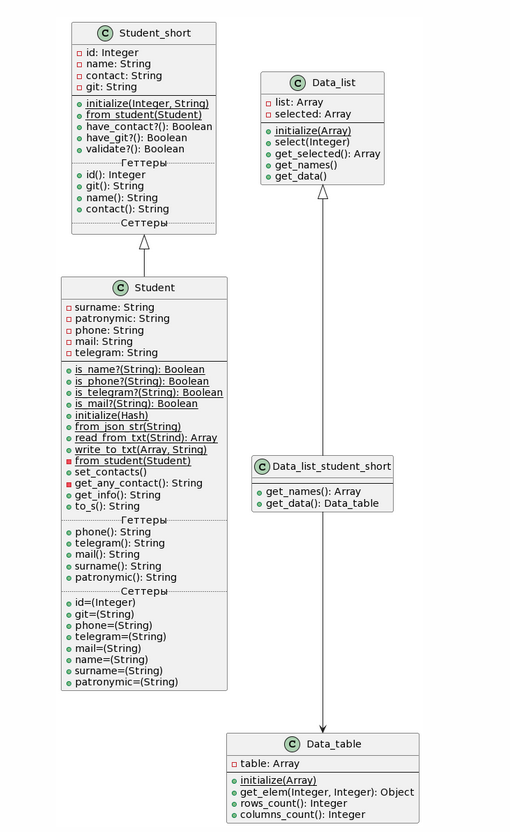
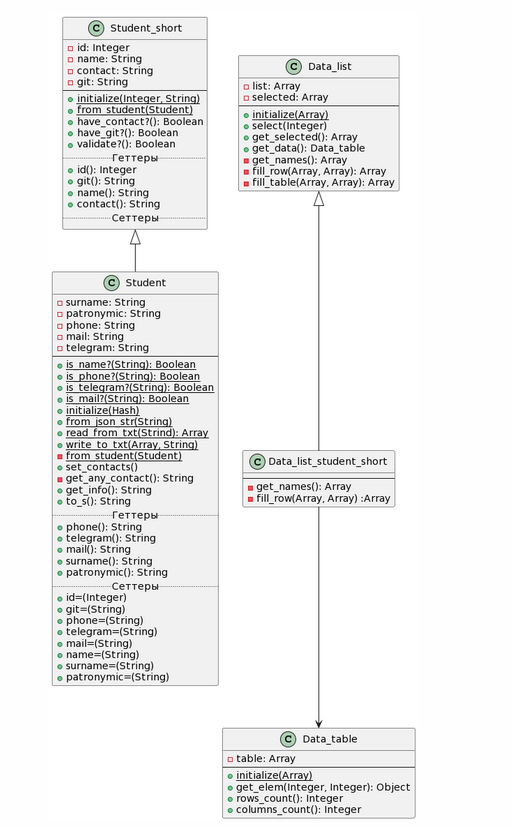
Реализовал паттерн шаблон для get_data

Changed region(s): [[0.0882, 0.0, 0.8235, 0.9976]]

diff --git a/Lab2/task1/data_list_student_short.rb b/Lab2/task1/data_list_student_short.rb
@@ -3,22 +3,18 @@ require_relative 'data_list'
 require_relative 'data_table'
 
 class Data_list_student_short < Data_list
-  def get_names
-    @list[0].instance_variables - [:@id]
+
+  #переопределили 1ый метод шаблона
+  #избавляемся от аттрибута id
+  protected def get_names
+    super - [:@id]
   end
 
-  def get_data
-    table = []
-
-    @list.each do |student|
-      row = []
-      row << table.size
-      get_names.each do |attr_name|
-        row << student.instance_variable_get(attr_name)
-      end
-      table << row
-    end
-    Data_table.new(table)
+  #переопреелили 2ой метод шаблона
+  #в начало строки записываем порядковый номер
+  protected def fill_row(attr_names, object)
+    super.insert(0, @list.index(object))
   end
-
 end
+
+

diff --git a/Lab2/task1/data_list.rb b/Lab2/task1/data_list.rb
@@ -18,11 +18,28 @@ class Data_list
     @selected
   end
 
-  def get_names
-
+  #основной метод, возвращающий Data_table
+  def get_data
+    Data_table.new(fill_table(get_names, @list))
   end
 
-  def get_data
+  protected
+  #метод шаблона 1 - вернуть имена аттрибутов
+  def get_names
+    @list[0].instance_variables
+  end
 
+  #метод шаблона 2 - заполнить строку для таблицы
+  def fill_row(attr_names, object)
+    row = []
+    attr_names.each{ |attr_name| row << object.instance_variable_get(attr_name) }
+    row
+  end
+
+  #метод шаблона 3 - заполнить таблицу
+  def fill_table(attr_names, objects_list)
+    table = []
+    objects_list.each{ |object| table << fill_row(attr_names, object) }
+    table
   end
 end
